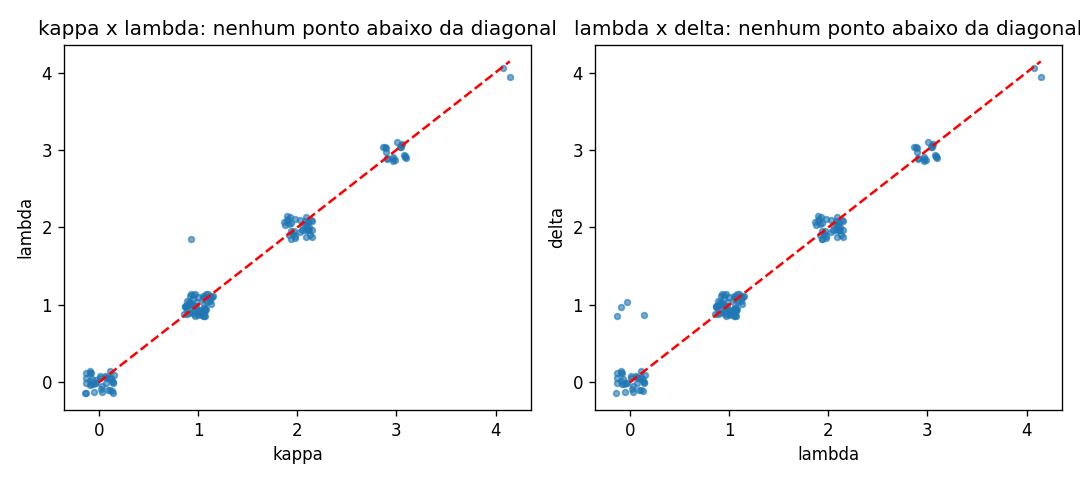
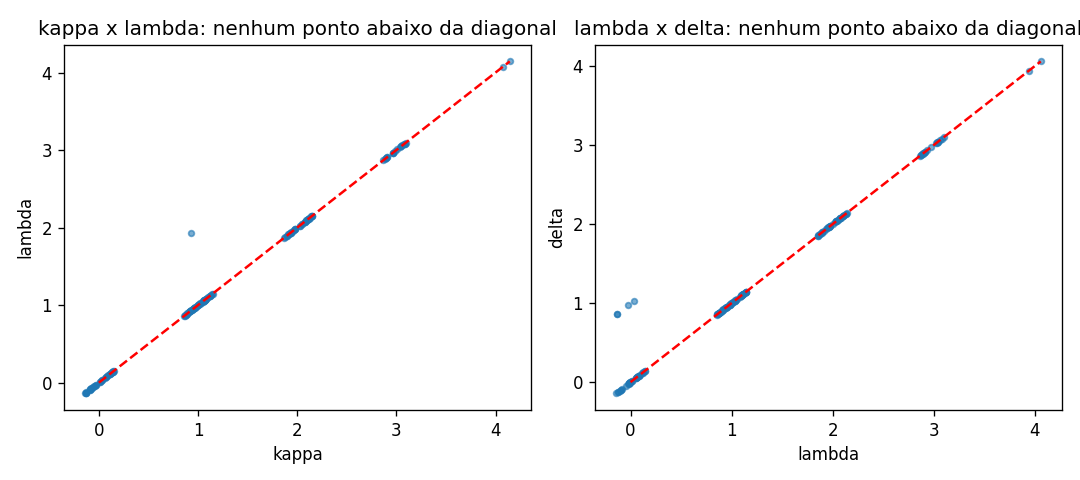
Revisao das partes 1 a 5 e README geral

diff --git a/Parte 1/tarefa_3_8/testes.py b/Parte 1/tarefa_3_8/testes.py
@@ -87,6 +87,7 @@ def teste_tabela():
     G = nx.Graph([(1, 2), (2, 3), (3, 4), (4, 5)])
     T = nx.Graph(EST)
     existe = nx.isomorphism.GraphMatcher(G, T).subgraph_is_monomorphic()
+    assert not existe      # o caminho tem grau maximo 2, nao cabe a estrela
     print("tabela ok (13 linhas); caso violado: existe alguma copia da estrela no caminho?", existe)
 
 
@@ -110,13 +111,13 @@ def teste_exaustivo():
                     assert nx.is_connected(H)
                 for n in (t, t + 1, t + 2):
                     GE = grafo_com_grau_minimo(n, t - 1, rng)
-                    x = rng.randint(1, n)
-                    phi, o, p, livres = imersao(t, TE, r, n, GE, x)
-                    assert phi is not None
-                    verifica_imersao(t, TE, r, n, GE, x, phi)
-                    for i, l in enumerate(livres, start=2):
-                        assert l >= t - i + 1          # folga da prova
-                    combinacoes += 1
+                    for x in range(1, n + 1):          # todo x, como pede o enunciado
+                        phi, o, p, livres = imersao(t, TE, r, n, GE, x)
+                        assert phi is not None
+                        verifica_imersao(t, TE, r, n, GE, x, phi)
+                        for i, l in enumerate(livres, start=2):
+                            assert l >= t - i + 1          # folga da prova
+                        combinacoes += 1
     assert contagens == [1, 1, 3, 16, 125, 1296], contagens
     print(f"exaustivo t<=6 ok: arvores {contagens}, {combinacoes} combinacoes")
 

diff --git a/Parte 5/tarefa_21_9/simetrizacao.py b/Parte 5/tarefa_21_9/simetrizacao.py
@@ -6,6 +6,8 @@ import sys
 
 def turan(n, r):
     # tamanhos das partes de T_r(n) (as primeiras n % r tem uma a mais) e t_r(n)
+    # com r > n as partes que sobram ficam vazias; nao precisa criar r entradas
+    r = min(r, max(n, 1))
     q, s = divmod(n, r)
     tam = [q + 1] * s + [q] * (r - s)
     return tam, n * (n - 1) // 2 - sum(t * (t - 1) // 2 for t in tam)
@@ -135,14 +137,25 @@ def resolve(n, r, E):
 
 
 def ler(texto):
-    nums = [int(x) for x in texto.split()]
+    try:
+        nums = [int(x) for x in texto.split()]
+    except ValueError:
+        raise ValueError("formato")
+    if len(nums) < 3 or nums[0] < 0 or nums[1] < 0 or len(nums) != 3 + 2 * nums[1]:
+        raise ValueError("formato")
     n, m, r = nums[0], nums[1], nums[2]
     E = [(nums[3 + 2 * i], nums[4 + 2 * i]) for i in range(m)]
+    if any(not (0 <= x < n) for e in E for x in e):
+        raise ValueError("vertice fora de 0..n-1")
     return n, r, E
 
 
 def main():
-    n, r, E = ler(sys.stdin.read())
+    try:
+        n, r, E = ler(sys.stdin.read())
+    except ValueError as erro:
+        print(f"ERRO entrada {erro}")
+        return 1
     if r < 1:
         print("ERRO r < 1")
         return 1
@@ -165,7 +178,7 @@ def main():
     if tipo == "clique":
         print("clique " + " ".join(map(str, cert)))
     else:
-        print("turan " + " | ".join(" ".join(map(str, P)) for P in cert))
+        print(("turan " + " | ".join(" ".join(map(str, P)) for P in cert)).strip())
     return 0
 
 

diff --git a/Parte 1/tarefa_4_7/hierholzer.py b/Parte 1/tarefa_4_7/hierholzer.py
@@ -55,6 +55,8 @@ def hierholzer(n, arestas, s=None, traco=None):
     m = len(arestas)
     if s is None:
         s = min(v for v in range(1, n + 1) if adj[v])
+    elif not (1 <= s <= n):
+        raise ValueError(f"vertice inicial {s} fora de 1..{n}")
     elif not adj[s]:
         raise ValueError("vertice inicial sem arestas")
     usada = [False] * (m + 1)
@@ -95,15 +97,20 @@ def main():
         print("uso: python hierholzer.py entradas/arquivo.txt [vertice_inicial]")
         return
     caminho = sys.argv[1]
-    s = int(sys.argv[2]) if len(sys.argv) > 2 else None
-    n, arestas = ler_grafo(caminho)
-    motivo = diagnostico(n, arestas)
+    try:
+        s = int(sys.argv[2]) if len(sys.argv) > 2 else None
+        n, arestas = ler_grafo(caminho)
+        motivo = diagnostico(n, arestas)
+        if motivo is None:
+            V, ids = hierholzer(n, arestas, s)
+    except (ValueError, IndexError) as erro:
+        print(f"ERRO: {erro}")
+        sys.exit(1)
     if motivo == "sem arestas":
         texto = "sem arestas: nada a percorrer"
     elif motivo is not None:
         texto = "NAO EULERIANO: " + motivo
     else:
-        V, ids = hierholzer(n, arestas, s)
         verificar(arestas, V, ids)
         texto = ("EULERIANO\nvertices: " + " ".join(map(str, V)) +
                  "\narestas: " + " ".join(map(str, ids)))

diff --git a/Parte 5/tarefa_24_P6/corte.py b/Parte 5/tarefa_24_P6/corte.py
@@ -46,19 +46,33 @@ def tamanho_corte(E, lado):
 
 
 def ler(texto):
-    nums = [int(x) for x in texto.split()]
+    try:
+        nums = [int(x) for x in texto.split()]
+    except ValueError:
+        raise ValueError("formato")
+    if len(nums) < 2 or nums[0] < 0 or nums[1] < 0 or len(nums) != 2 + 2 * nums[1]:
+        raise ValueError("formato")
     n, m = nums[0], nums[1]
-    return n, [(nums[2 + 2 * i], nums[3 + 2 * i]) for i in range(m)]
+    E = [(nums[2 + 2 * i], nums[3 + 2 * i]) for i in range(m)]
+    if any(not (0 <= x < n) for e in E for x in e):
+        raise ValueError("vertice fora de 0..n-1")
+    return n, E
 
 
 def main():
-    n, E = ler(sys.stdin.read())
+    try:
+        n, E = ler(sys.stdin.read())
+    except ValueError as erro:
+        print(f"ERRO entrada {erro}")
+        return 1
     if any(u == v for u, v in E):
         print("ERRO laco")
         return 1
     lado, E2, _ = corte_guloso(n, listas(n, E))
     c = tamanho_corte(E, lado)
-    assert 2 * c >= len(E) and 2 * c == E2[-1]
+    if 2 * c < len(E) or 2 * c != E2[-1]:      # nao deixo so no assert (python -O tira)
+        print("ERRO corte abaixo de m/2")
+        return 1
     print(f"corte {c}")
     print(f"m {len(E)}")
     print("lados " + " ".join(map(str, lado)) if lado else "lados")

diff --git a/Parte 2/tarefa_8_15/graficos.py b/Parte 2/tarefa_8_15/graficos.py
@@ -33,13 +33,13 @@ def fig_blossom():
     nx.draw_networkx_edges(G, pos, edgelist=[tuple(e) for e in arest(mate0)], width=4,
                            edge_color="royalblue", ax=axs[0])
     nx.draw_networkx_edges(G, pos, edgelist=rec, width=2, style="dashed", edge_color="red", ax=axs[0])
-    axs[0].set_title("G: M (azul), blossom (dourado), caminho (vermelho)")
+    axs[0].set_title("G: M (azul), blossom (dourado),\ncaminho aumentante (vermelho)", fontsize=10)
     H = nx.Graph([(base[u], base[v]) for u, v in E if base[u] != base[v]])
     pH = {b: tuple(sum(pos[v][i] for v in range(n) if base[v] == b) / base.count(b) for i in (0, 1)) for b in H}
     nx.draw(H, pH, ax=axs[1], with_labels=True, node_color="lightblue", edge_color="gray")
     nx.draw_networkx_edges(H, pH, edgelist=[(base[u], base[v]) for u, v in map(tuple, arest(mate0))
                                             if base[u] != base[v]], width=4, edge_color="royalblue", ax=axs[1])
-    axs[1].set_title("contraido: o blossom virou um vertice (rotulo = base)")
+    axs[1].set_title("contraido: o blossom virou um vertice\n(rotulo = base)", fontsize=10)
     plt.savefig("figuras/blossom.png", dpi=120)
     plt.close()
 

diff --git a/Parte 2/tarefa_6_19/edmonds_karp.py b/Parte 2/tarefa_6_19/edmonds_karp.py
@@ -42,6 +42,15 @@ def edmonds_karp(n, arcos, s, t, f0=None, checar=False, trilhas=None):
         R.add_arc(u, v, c)
     valor = 0
     if f0 is not None:
+        if len(f0) != len(arcos):
+            raise ValueError(f"f0 tem {len(f0)} valores, esperado {len(arcos)}")
+        saldo = [0] * n
+        for k, (u, v, c) in enumerate(arcos):
+            saldo[u] += f0[k]
+            saldo[v] -= f0[k]
+        ruins = [v for v in range(n) if v not in (s, t) and saldo[v] != 0]
+        if ruins:
+            raise ValueError("f0 nao conserva fluxo em " + " ".join(map(str, ruins)))
         for k, (u, v, c) in enumerate(arcos):
             if not (0 <= f0[k] <= c):
                 raise ValueError("f0 nao respeita 0 <= f0 <= c")
@@ -146,7 +155,12 @@ def main():
     for caminho in arquivos:
         if len(arquivos) > 1:
             print("==", os.path.basename(caminho))
-        print(roda_arquivo(caminho))
+        try:
+            print(roda_arquivo(caminho))
+        except (ValueError, IndexError) as erro:
+            print(f"ERRO: {erro}")
+            if len(arquivos) == 1:
+                sys.exit(1)
 
 
 if __name__ == "__main__":

diff --git a/Parte 2/tarefa_9_11/graficos.py b/Parte 2/tarefa_9_11/graficos.py
@@ -58,9 +58,12 @@ def fig_dispersao():
         n = rng.randint(4, 9)
         E = [e for e in itertools.combinations(range(n), 2) if rng.random() < 0.5]
         k, l, d = kappa_G(n, E), lambda_G(n, E), delta_G(n, E)
+        # o mesmo deslocamento nas duas coordenadas: o ponto so anda sobre a diagonal,
+        # entao kappa = lambda continua em cima da reta (com ruido independente sobraria
+        # ponto abaixo dela so por causa do ruido)
         r1, r2 = rng.uniform(-.15, .15), rng.uniform(-.15, .15)
-        pts_kl.append((k + r1, l + r2))
-        pts_ld.append((l + r1, d + r2))
+        pts_kl.append((k + r1, l + r1))
+        pts_ld.append((l + r2, d + r2))
     fig, (a1, a2) = plt.subplots(1, 2, figsize=(9, 4))
     for ax, pts, xl, yl in ((a1, pts_kl, "kappa", "lambda"), (a2, pts_ld, "lambda", "delta")):
         ax.scatter(*zip(*pts), s=12, alpha=.6)

diff --git a/Parte 4/tarefa_20_11/coloracao.py b/Parte 4/tarefa_20_11/coloracao.py
@@ -193,9 +193,16 @@ def main():
         print("uso: python coloracao.py konig|vizing [trocas.log] < g.txt")
         return 0
     modo = sys.argv[1]
-    nums = [int(x) for x in sys.stdin.read().split()]
-    n, m = nums[0], nums[1]
-    E = [(nums[2 + 2 * i], nums[3 + 2 * i]) for i in range(m)]
+    try:
+        nums = [int(x) for x in sys.stdin.read().split()]
+        n, m = nums[0], nums[1]
+        E = [(nums[2 + 2 * i], nums[3 + 2 * i]) for i in range(m)]
+    except (ValueError, IndexError):
+        print("ERRO entrada")
+        return 1
+    if any(not (0 <= x < n) for e in E for x in e):
+        print("ERRO entrada vertice fora de 0..n-1")
+        return 1
     try:
         cor, log, stats = colorir(n, E, modo)
     except ValueError as erro:

diff --git a/Parte 1/tarefa_2_11/graficos.py b/Parte 1/tarefa_2_11/graficos.py
@@ -59,13 +59,17 @@ def fig_densidade():
 
 def fig_tempo():
     random.seed(0)
-    ns = [1000, 2000, 4000, 8000, 16000]
+    ns = [2000, 4000, 8000, 16000, 32000, 64000]
     ts = []
     for n in ns:
         E = grafo_aleatorio(n, 3)
-        t0 = time.perf_counter()
-        nucleo(n, E)
-        ts.append(time.perf_counter() - t0)
+        melhor = None
+        for _ in range(5):                 # menor de 5 execucoes, tempos curtos oscilam muito
+            t0 = time.perf_counter()
+            nucleo(n, E)
+            dt = time.perf_counter() - t0
+            melhor = dt if melhor is None else min(melhor, dt)
+        ts.append(melhor)
     a, b = np.polyfit(np.log(ns), np.log(ts), 1)
     print(f"tempo: inclinacao {a:.2f}")
     plt.figure()

diff --git a/Parte 4/tarefa_16_8/fluxo.py b/Parte 4/tarefa_16_8/fluxo.py
@@ -42,7 +42,7 @@ def corrigir(n, pe, cab, val, k):
         visto[s] = True
         fila = deque([s])
         t = None
-        ops = 0
+        ops = n                           # achar s e zerar visto/pai: O(n) por correcao
         while fila and t is None:
             u = fila.popleft()
             for e in inc[u]:
@@ -96,7 +96,14 @@ def ler(texto):
 
 
 def main():
-    n, k, pe, cab, val = ler(sys.stdin.read())
+    try:
+        n, k, pe, cab, val = ler(sys.stdin.read())
+    except (ValueError, IndexError):
+        print("ERRO entrada")
+        return 1
+    if any(not (0 <= v < n) for v in pe + cab):
+        print("ERRO entrada vertice fora de 0..n-1")
+        return 1
     if k < 2:
         print("ERRO k < 2")
         return 1

diff --git a/Parte 5/tarefa_24_P6/graficos.py b/Parte 5/tarefa_24_P6/graficos.py
@@ -88,7 +88,9 @@ def fig3():
         NM.append(n + len(Eg))
         OPS.append(ops + n)
     a, _ = np.polyfit(np.log(NM), np.log(T), 1)
-    print(f"fig3: guloso {c}, m/2 = {len(E) / 2}, {acima} de 5000 aleatorias >= guloso; expoente do tempo {a:.2f}")
+    razao = [o / x for o, x in zip(OPS, NM)]
+    print(f"fig3: guloso {c}, m/2 = {len(E) / 2}, {acima} de 5000 aleatorias >= guloso; expoente do tempo {a:.2f}; "
+          f"operacoes / (n + m) entre {min(razao):.3f} e {max(razao):.3f}")
     ax[1].loglog(NM, T, "o-", label=f"medido, expoente {a:.2f}")
     ax[1].loglog(NM, [T[0] * x / NM[0] for x in NM], ":", label="inclinacao 1")
     ax[1].set(xlabel="n + m", ylabel="s", title="tempo (m = 3n)")

diff --git a/Parte 1/tarefa_2_7/havel_hakimi.py b/Parte 1/tarefa_2_7/havel_hakimi.py
@@ -68,9 +68,13 @@ def main():
         print("uso: python havel_hakimi.py entradas/arquivo.txt")
         return
     caminho = sys.argv[1]
-    with open(caminho) as arq:
-        d = [int(x) for x in arq.read().split()]
-    res = havel_hakimi(d)
+    try:
+        with open(caminho) as arq:
+            d = [int(x) for x in arq.read().split()]
+        res = havel_hakimi(d)
+    except ValueError as erro:
+        print(f"ERRO: {erro}")
+        sys.exit(1)
     if res[0]:
         # confere a realizacao antes de imprimir
         E = res[1]
